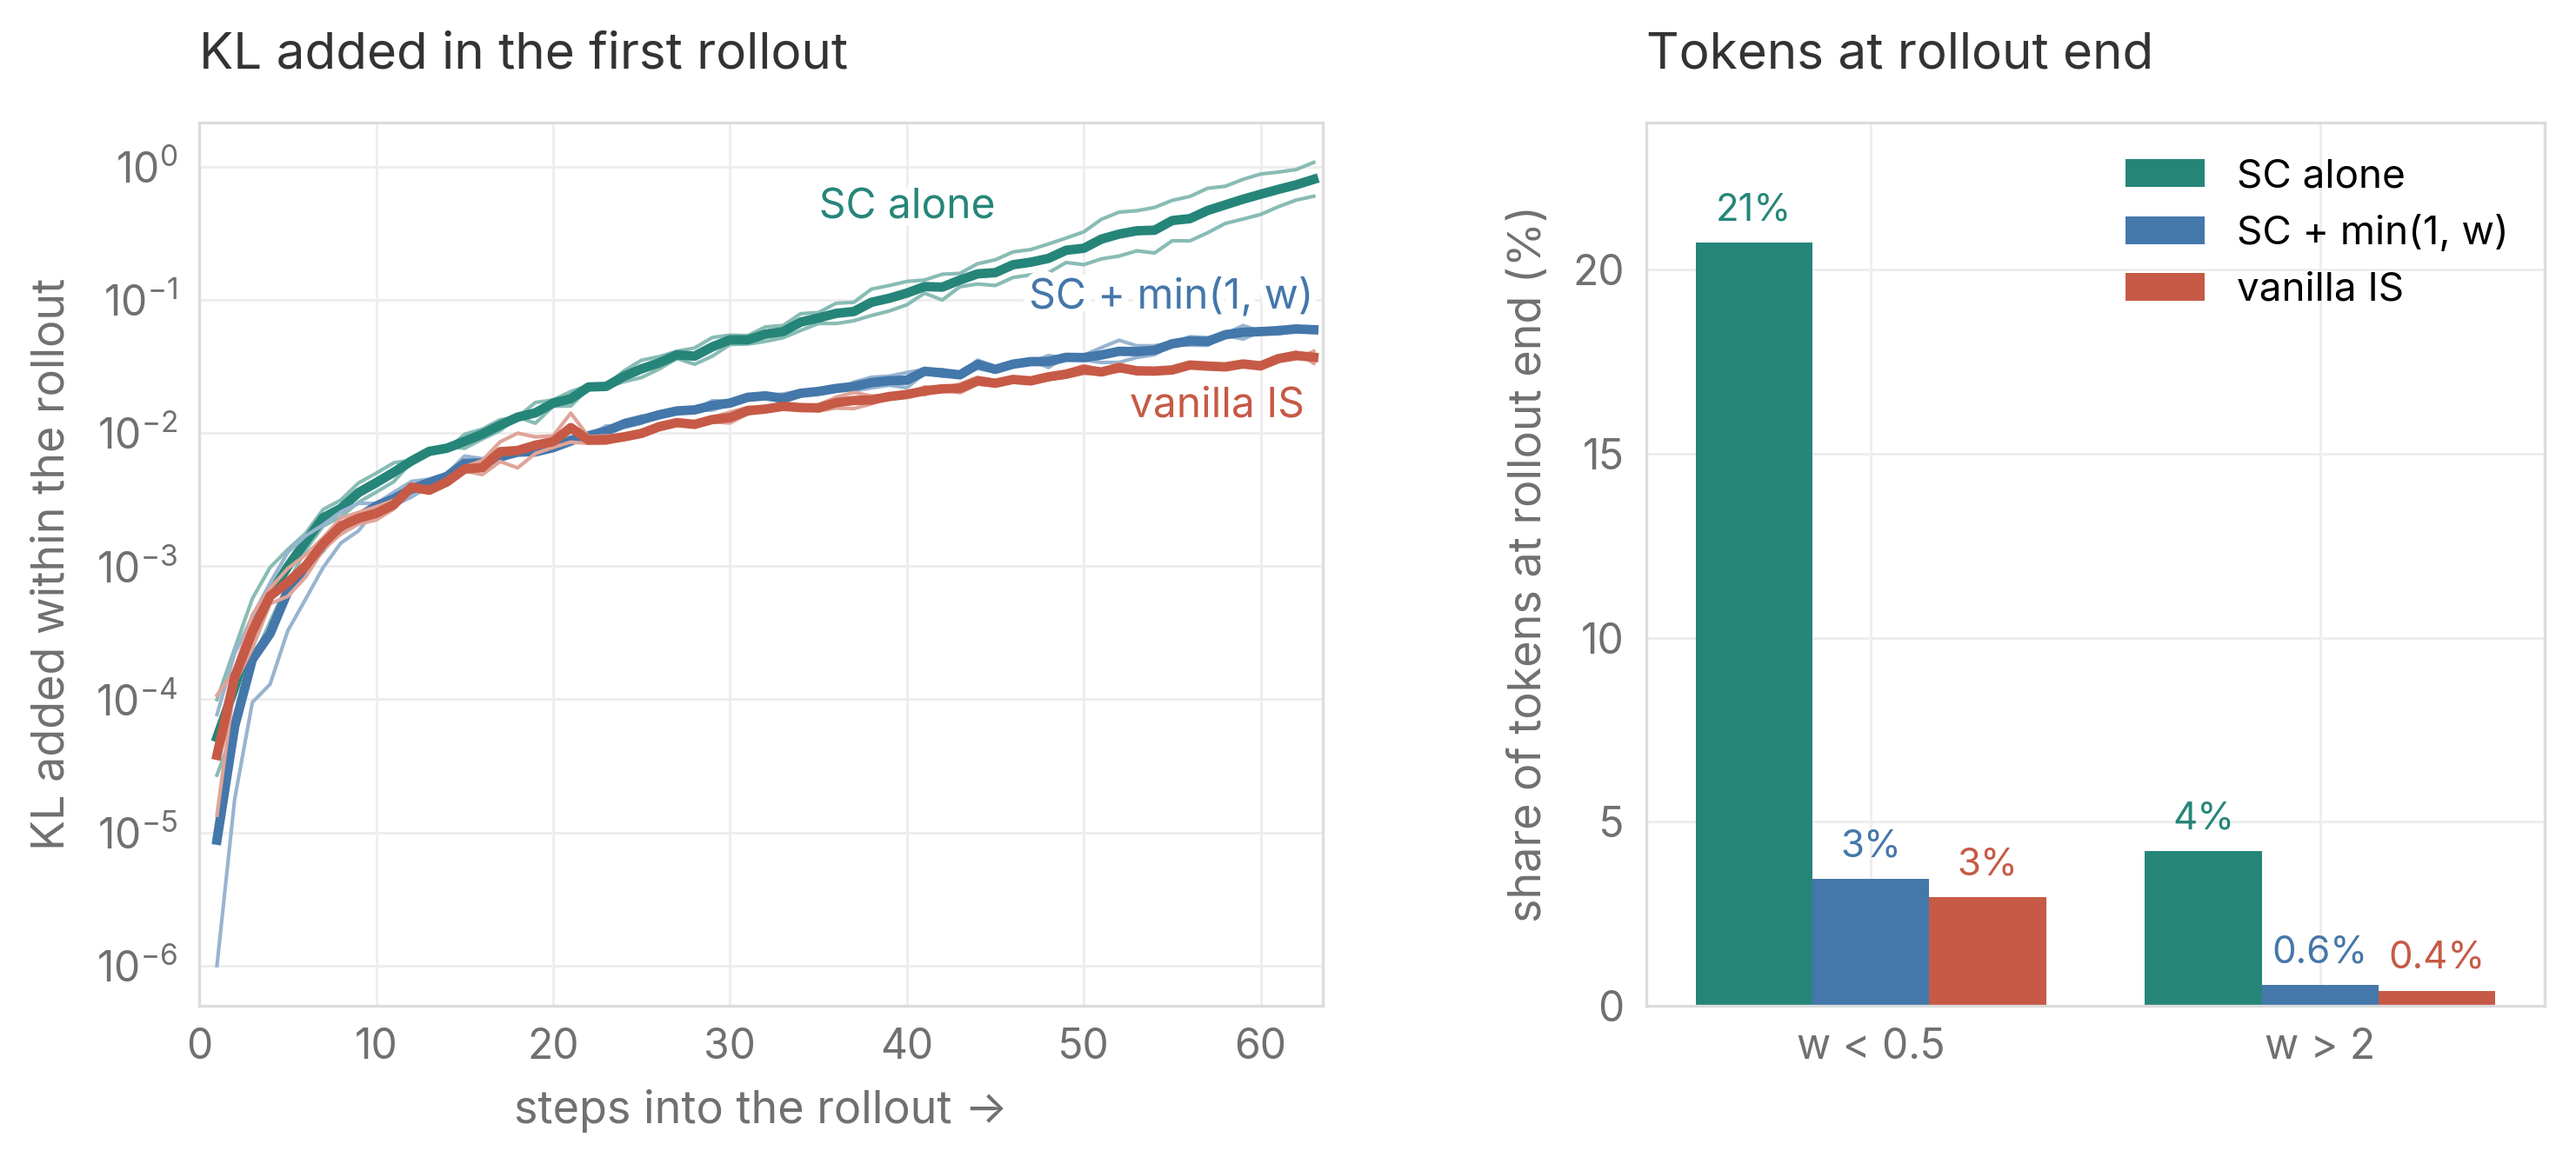
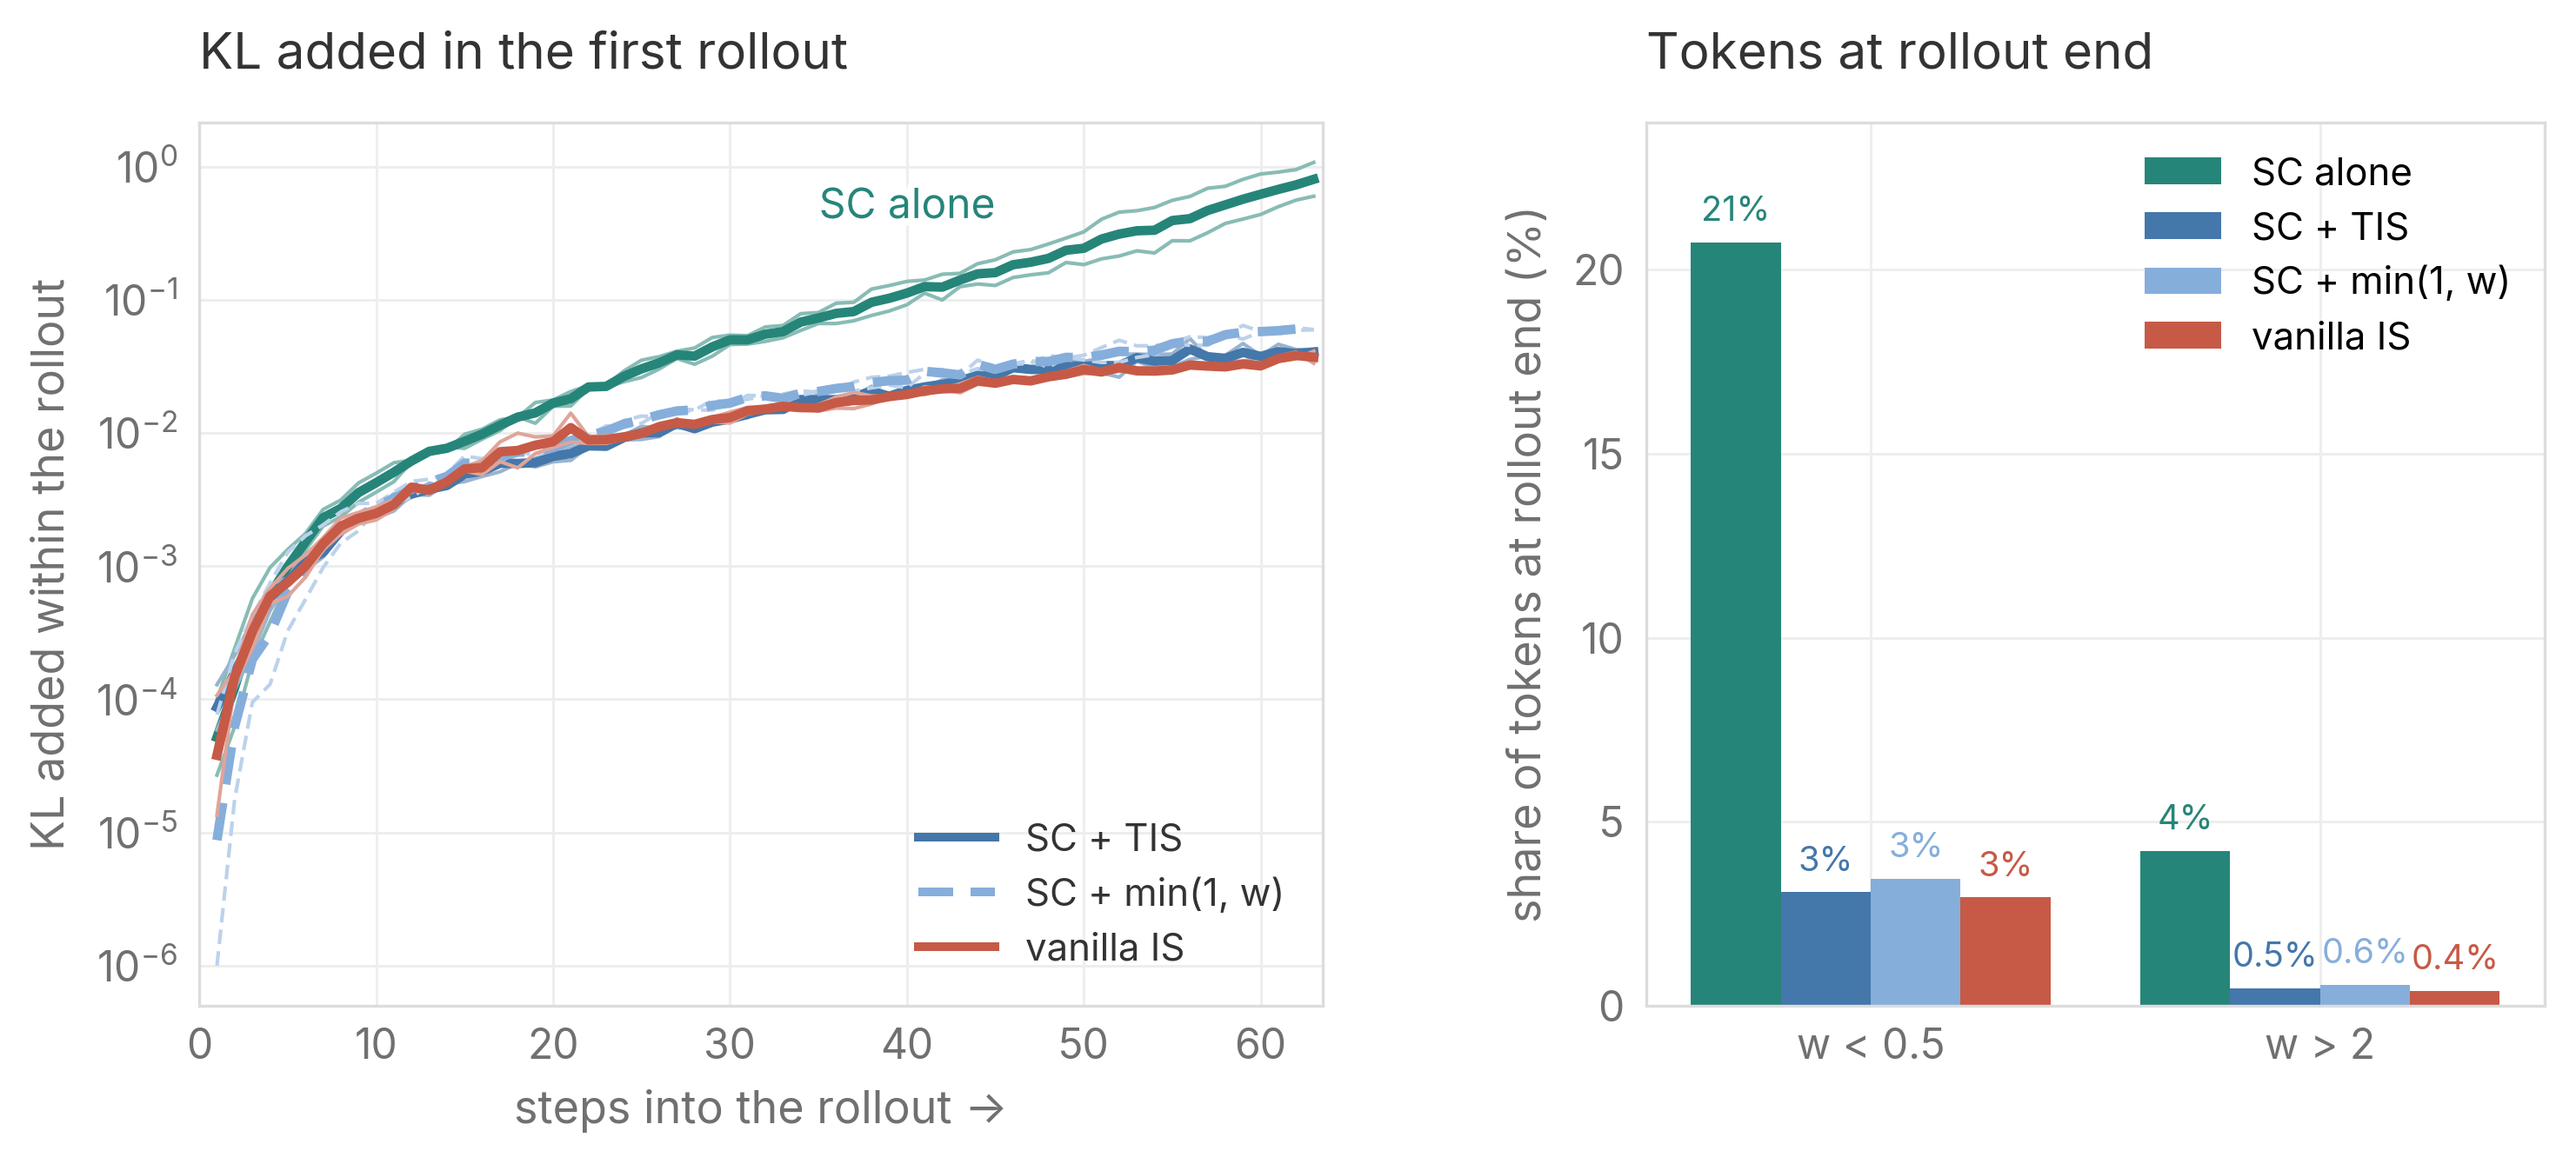
sc-drift-and-distance: Figure 14 adds SC + TIS; min(1, w) light-blue dashed in 14/15; large-batch SC + TIS level with SC alone; Figure 17 yes/no

diff --git a/sc-drift-and-distance/index.html b/sc-drift-and-distance/index.html
@@ -233,11 +233,11 @@ html[data-theme=dark] .body figure img{filter:invert(.92) hue-rotate(180deg)}
 <p><b>Why truncate the large weights.</b> A token gets a large weight when the trainer gives it much more probability than the sampler did. Untruncated, such weights break training even when the trainer stays close to the sampler. In <a class="figref" href="#fig-12">Figure 12</a>, an fp8 sampler with a bf16 trainer adds a small rounding difference to every probability, and the KL stays small. At staleness 15, a single weight jumps to nearly 20,000, so that one token counts as much as 20,000 ordinary ones (right), and vanilla IS collapses, while SC + TIS, truncated at 2, trains to the end (left). At staleness 63, vanilla IS stays 10× closer to the sampler than SC alone in the first rollout, yet collapses in both seeds (<a class="figref" href="#fig-13">Figure 13</a>).</p>
 <figure id="fig-12"><img src="figs/fig08_fp8_sampler.png?v=f4d4eb871d" alt="Figure 12"><figcaption><b>Figure 12. Vanilla IS, SC alone, and SC + TIS with an fp8 sampler.</b> 0.8B on GSM8K, staleness 15 unless noted, batch 512. Left: training reward. Right: the largest importance weight in each rollout, which SC alone only logs. The sampler runs weights and activations in fp8 and keeps the KV cache in bf16. Storing the KV cache in fp8 as well changes little, because only 6 of the model’s 24 layers use attention.</figcaption></figure>
 <figure id="fig-13"><img src="figs/fig09_staleness63_vanilla_is.png?v=25e39c4422" alt="Figure 13"><figcaption><b>Figure 13. SC alone against vanilla IS.</b> 0.8B on GSM8K, staleness 63, batch 512, two seeds each. Left: KL to the sampler in the first rollout. Right: training reward.</figcaption></figure>
-<p><b>What the small weights keep.</b> IS multiplies each token's update by its weight \(w = p/q\). A token the trainer already gives less probability than the sampler has \(w &lt; 1\), so when IS pushes it down further, the push shrinks with \(w\). SC does not reweight tokens, so it keeps pushing such tokens down at full strength, and they sink further below the sampler. <a class="figref" href="#fig-14">Figure 14</a> shows the result in the first rollout at staleness 63: SC alone ends with 21% of tokens below \(w = 0.5\), against 3% under vanilla IS (right). To check that this is what moves SC alone so far, we add only this scaling to SC, by multiplying the terms with negative advantage by \(\min(1, w)\). The KL drops more than tenfold, close to vanilla IS (left).</p>
-<figure id="fig-14"><img src="figs/fig10_low_end_first_rollout.png?v=9326ec242c" alt="Figure 14"><figcaption><b>Figure 14. SC alone, SC + \(\min(1, w)\), and vanilla IS in the first rollout.</b> 0.8B on GSM8K, staleness 63, batch 512, two seeds each. Left: KL added within the rollout. Right: share of tokens with \(w &lt; 0.5\) or \(w &gt; 2\) at its end.</figcaption></figure>
-<p><b>SC + TIS still collapses at small batches.</b> In our settings, truncation removes the failure of large weights and the small weights shrink the KL, yet SC + TIS still collapses at small batches in the same settings as SC alone (<a class="figref" href="#fig-8">Figure 8</a>), and so does SC + \(\min(1, w)\) (<a class="figref" href="#fig-15">Figure 15</a>). At large batches it does work. The SC paper trains with 512 responses per step and finds SC + TIS ahead of SC alone (<a class="cite" href="#ref-marek2026">Marek &amp; Ryabinin, 2026</a>), and in our runs it trains to the end at batch 512 and, on 4B, at batch 128.</p>
+<p><b>What the small weights keep.</b> IS multiplies each token's update by its weight \(w = p/q\). A token the trainer already gives less probability than the sampler has \(w &lt; 1\), so when IS pushes it down further, the push shrinks with \(w\). SC does not reweight tokens, so it keeps pushing such tokens down at full strength, and they sink further below the sampler. <a class="figref" href="#fig-14">Figure 14</a> shows the result in the first rollout at staleness 63: SC alone ends with 21% of tokens below \(w = 0.5\), against 3% under vanilla IS (right). To check that this is what moves SC alone so far, we add only this scaling to SC, by multiplying the terms with negative advantage by \(\min(1, w)\). The KL drops more than tenfold, to where SC + TIS and vanilla IS end (left).</p>
+<figure id="fig-14"><img src="figs/fig10_low_end_first_rollout.png?v=834a77f1ab" alt="Figure 14"><figcaption><b>Figure 14. SC alone, SC + TIS, SC + \(\min(1, w)\), and vanilla IS in the first rollout.</b> 0.8B on GSM8K, staleness 63, batch 512, two seeds each. Left: KL added within the rollout. Right: share of tokens with \(w &lt; 0.5\) or \(w &gt; 2\) at its end.</figcaption></figure>
+<p><b>SC + TIS still collapses at small batches.</b> In our settings, truncation removes the failure of large weights and the small weights shrink the KL, yet SC + TIS still collapses at small batches in the same settings as SC alone (<a class="figref" href="#fig-8">Figure 8</a>), and so does SC + \(\min(1, w)\) (<a class="figref" href="#fig-15">Figure 15</a>). At large batches SC + TIS trains to the end. The SC paper, with 512 responses per step, finds it ahead of SC alone (<a class="cite" href="#ref-marek2026">Marek &amp; Ryabinin, 2026</a>). In our runs at batch 512, and on 4B at batch 128, it ends level with SC alone.</p>
 <details><summary>SC + \(\min(1, w)\) over whole runs</summary>
-<figure id="fig-15"><img src="figs/fig11_low_end_runs.png?v=bb4b93003e" alt="Figure 15"><figcaption><b>Figure 15. SC alone and SC + \(\min(1, w)\) over whole runs.</b> 0.8B on GSM8K, staleness 63, seed 1. Training reward.</figcaption></figure>
+<figure id="fig-15"><img src="figs/fig11_low_end_runs.png?v=32070b9df6" alt="Figure 15"><figcaption><b>Figure 15. SC alone and SC + \(\min(1, w)\) over whole runs.</b> 0.8B on GSM8K, staleness 63, seed 1. Training reward.</figcaption></figure>
 </details>
 <h3 id="sec-4-3">4.3 A KL penalty: stability at a cost, but worth exploring</h3>
 <p>The last option is a KL penalty. Instead of changing the source, it adds a pull back toward the sampler that grows with the distance. That pull acts on every move, whether from noise or from learning, so a strong penalty also holds back learning. Can it beat a lower learning rate?</p>
@@ -256,7 +256,7 @@ html[data-theme=dark] .body figure img{filter:invert(.92) hue-rotate(180deg)}
 <p><b>On 4B, the default penalty barely learns.</b> With Tinker’s default penalty on DAPO-Math at batch 16 (purple in <a class="figref" href="#fig-8">Figure 8</a>), SC no longer collapses, but the training reward never trends up. Its final checkpoint scores 21% on AIME, close to the base model and far below the batch-128 runs (<a class="figref" href="#fig-9">Figure 9</a>). The same \(\beta\) that was too weak on 0.8B holds back learning here, so a penalty strength tuned in one setup does not carry over to another.</p>
 <h2 id="5-a-checklist-for-async-rl"><span id="sec-5"></span>5. A checklist for async RL</h2>
 <p><a class="figref" href="#fig-17">Figure 17</a> turns our results into a checklist, with one box for each step below.</p>
-<figure id="fig-17"><img src="figs/fig17_checklist.png?v=1e9d179d85" alt="Figure 17"><figcaption><b>Figure 17. A checklist for async RL.</b> Rule out setup bugs, turn on score centering, and bring a far-off trainer closer at the source before adding a KL penalty.</figcaption></figure>
+<figure id="fig-17"><img src="figs/fig17_checklist.png?v=08122379f2" alt="Figure 17"><figcaption><b>Figure 17. A checklist for async RL.</b> Rule out setup bugs, turn on score centering, and bring a far-off trainer closer at the source before adding a KL penalty.</figcaption></figure>
 <p><b>1. Rule out setup bugs.</b> These checks are cheap, and no correction survives a large mismatch (<a class="cite" href="#ref-fang2025" title="Fang, Q., and Khazi, D. (2025). Mismatch Praxis: Rollout Settings and IS Corrections. Blog post. llmdata.com/blog/mismatch-praxis">Fang &amp; Khazi, 2025</a>). Measure the KL at zero staleness. If it is clearly above zero, match the sampler’s temperature and top-p or top-k mask, replay the sampler’s MoE routing, and pass the sampler’s token IDs instead of re-tokenizing the text, which can split it differently.</p>
 <p><b>2. Turn on score centering.</b> It removes drift, the error that amplifies itself and that no batch size averages away. If you also use importance sampling, truncate the weights.</p>
 <p><b>3. Watch how far the trainer moves.</b> The largest KL in each rollout is the signal to watch. While it stays small, score centering alone is enough.</p>
